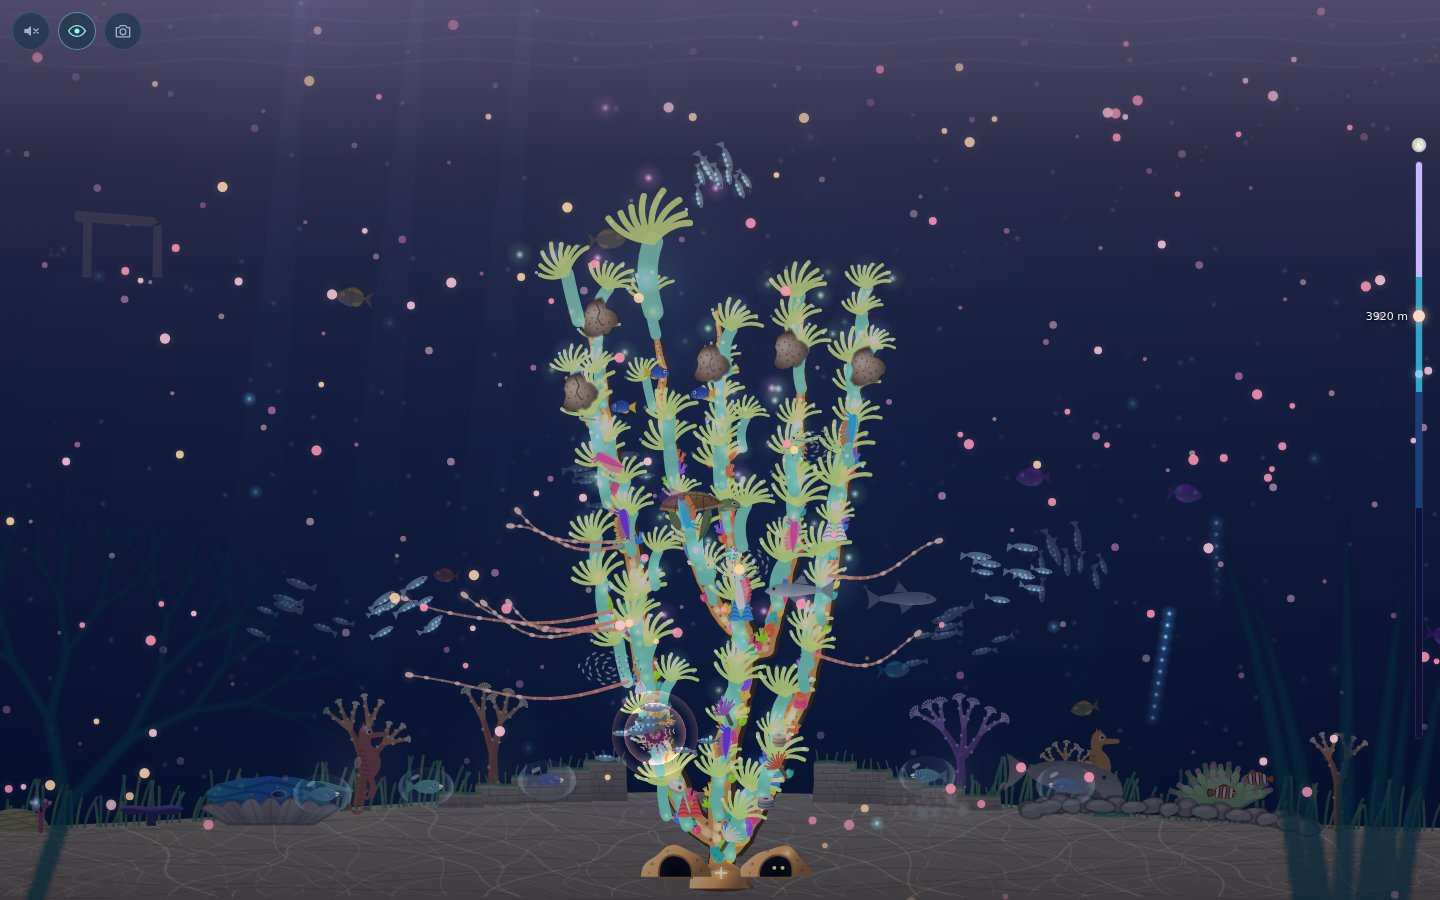
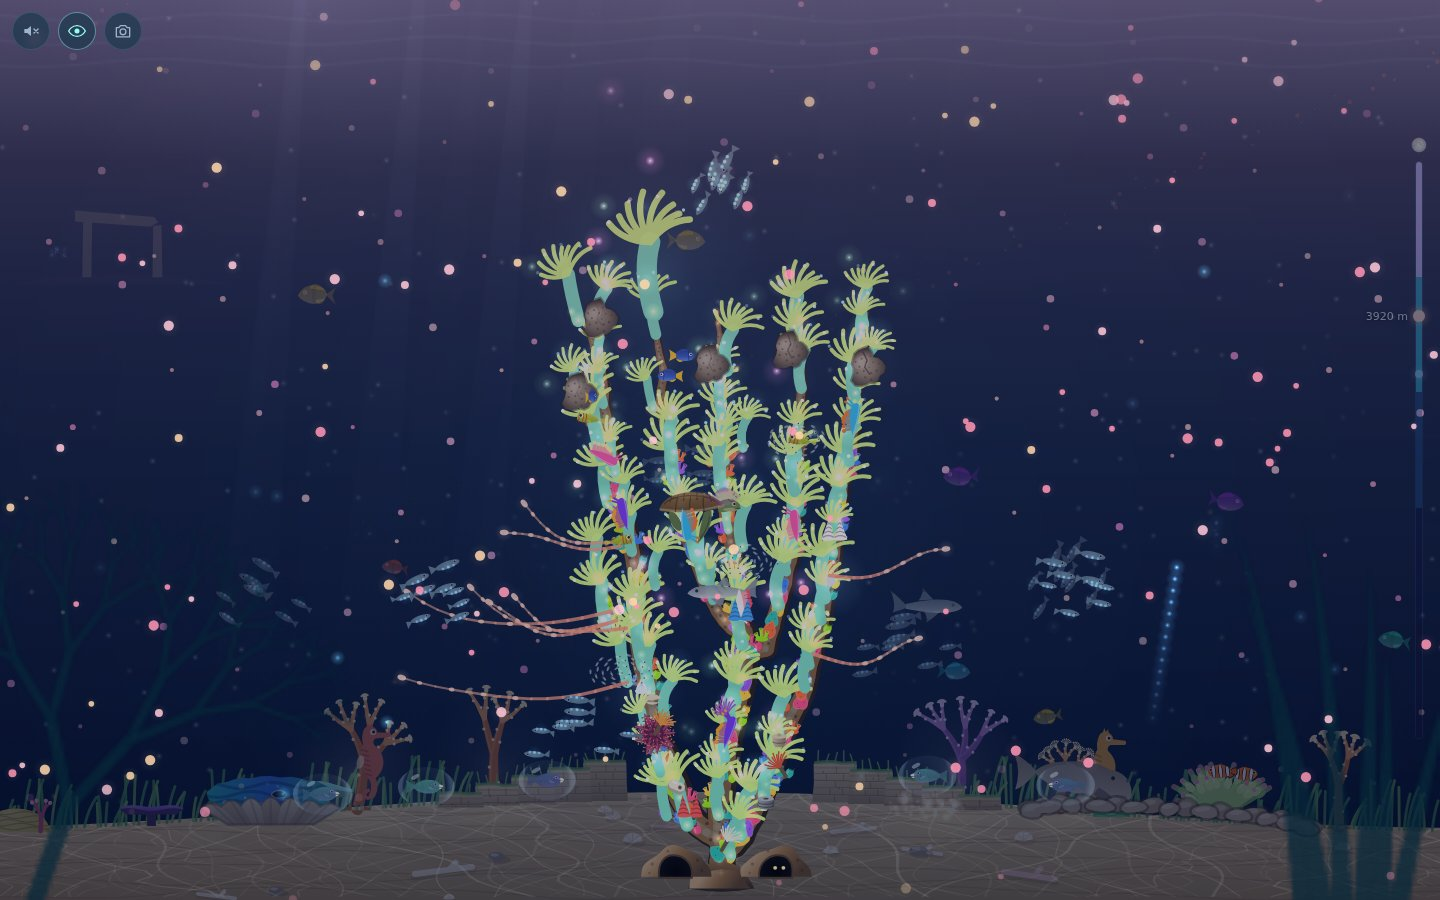
?nohints for the README and preview pictures; Breach and full moon retaken without hint rings

diff --git a/src/client/main.ts b/src/client/main.ts
@@ -1034,7 +1034,7 @@ function view(): ReefView {
     sisterLit: state.race.lit > 0,
     grotto: state.levels.grotto,
     blueMoon: blueMoon(state.t),
-    hints: !photoPending,
+    hints: hintsShown(),
     age: state.t,
     combo: state.t - state.lastSweep <= ACT1.comboGap ? state.combo : 1,
     fragments: state.fragments,
@@ -2021,6 +2021,10 @@ photoBtn.innerHTML = '<svg viewBox="0 0 24 24" width="20" height="20" aria-hidde
 // The shot is taken from the next frame, drawn without the play's own marks (the ripples of a tap,
 // today's visitor's halo): a picture of the reef, not of the hints.
 let photoPending: (() => void) | null = null;
+/** ?nohints: every frame drawn as for a photo (the README's and the link preview's pictures). */
+const noHints = params.has('nohints');
+/** Whether this frame shows the play's own marks: not in a photo, not with ?nohints. */
+function hintsShown(): boolean { return !photoPending && !noHints; }
 photoBtn.addEventListener('click', () => { photoPending = takePhoto; });
 function takePhoto(): void {
   // A copy of the scene with a small caption in the corner: name, height, zone.
@@ -2532,7 +2536,7 @@ function frameBody(now: number): void {
     }
   }
   const fe = currentFeast(state);
-  if (fe) drawFeast(ctx, fe, state.t - fe.start, tNow, focusNow, dpr, feastPay(state), !photoPending);
+  if (fe) drawFeast(ctx, fe, state.t - fe.start, tNow, focusNow, dpr, feastPay(state), hintsShown());
   const tg = currentTangle(state);
   // Under the full moon the other reefs spawn: their bundles rise through the water below the Breach.
   if (actAt(state.height) <= 4 && state.height >= 1 && moonFull(state.t)) {
@@ -2540,12 +2544,12 @@ function frameBody(now: number): void {
     drawOthersSpawn(ctx, focusNow, tNow, strength, actAt(state.height) <= 2 ? 1 : actAt(state.height) === 3 ? 0.5 : 0, dpr);
   }
   const sy = currentStray(state);
-  if (sy) drawStray(ctx, sy, STRAY.life, tNow, focusNow, dpr, !photoPending);
+  if (sy) drawStray(ctx, sy, STRAY.life, tNow, focusNow, dpr, hintsShown());
   const fr = currentFragment(state);
-  if (fr) drawFragment(ctx, fr, FRAGMENT.life, tNow, focusNow, dpr, !photoPending);
-  if (tg && actAt(state.height) === 1) drawPinned(ctx, tg, TANGLE.life, tNow, focusNow, dpr, !photoPending);
-  else if (tg && actAt(state.height) !== 5) drawTangle(ctx, tg, TANGLE.life, tNow, focusNow, dpr, !photoPending);
-  if (!photoPending) {
+  if (fr) drawFragment(ctx, fr, FRAGMENT.life, tNow, focusNow, dpr, hintsShown());
+  if (tg && actAt(state.height) === 1) drawPinned(ctx, tg, TANGLE.life, tNow, focusNow, dpr, hintsShown());
+  else if (tg && actAt(state.height) !== 5) drawTangle(ctx, tg, TANGLE.life, tNow, focusNow, dpr, hintsShown());
+  if (hintsShown()) {
     taps.draw(ctx, tNow, scene.crownAt, dpr, (x, y) => actAt(state.height) <= 2 || !!scene.darkAt?.(x, y));
     drawLucky(tNow);
   }

diff --git a/tools/readme.ts b/tools/readme.ts
@@ -10,16 +10,16 @@ const PHONE: Viewport = { name: 'phone', width: 390, height: 844, scale: 3, mobi
 type Shot = { name: string; query: string; vp: Viewport; view: boolean };
 const SHOTS: Shot[] = [
   // A chimaera crossing the Silt Floor.
-  { name: 'silt-floor', query: '?bot=300&t=942', vp: DESKTOP, view: true },
+  { name: 'silt-floor', query: '?bot=300&t=942&nohints', vp: DESKTOP, view: true },
   // The whale far above, whose call carries down.
-  { name: 'midnight-water', query: '?bot=1800&t=1930', vp: DESKTOP, view: true },
+  { name: 'midnight-water', query: '?bot=1800&t=1930&nohints', vp: DESKTOP, view: true },
   // The Rasp grazing the slope, a manta overhead.
-  { name: 'twilight-shelf', query: '?bot=12000&t=11979', vp: DESKTOP, view: true },
-  { name: 'sunlit-crown', query: '?bot=17000&t=17113', vp: DESKTOP, view: true },
+  { name: 'twilight-shelf', query: '?bot=12000&t=11979&nohints', vp: DESKTOP, view: true },
+  { name: 'sunlit-crown', query: '?bot=17000&t=17113&nohints', vp: DESKTOP, view: true },
   // A humpback breaching beside the crown, under the moon.
-  { name: 'breach', query: '?bot=22000&t=22291', vp: DESKTOP, view: true },
+  { name: 'breach', query: '?bot=22000&t=22291.85&nohints', vp: DESKTOP, view: true },
   // The other reefs spawning under the full moon, in the Sunlit Crown.
-  { name: 'full-moon', query: '?bot=17340&t=17340', vp: DESKTOP, view: true },
+  { name: 'full-moon', query: '?bot=17340&t=17340.85&nohints', vp: DESKTOP, view: true },
   { name: 'panel', query: '?bot=11000&t=11000', vp: DESKTOP, view: false },
   { name: 'phone', query: '?bot=17000&t=17000', vp: PHONE, view: false },
 ];

diff --git a/tools/share.ts b/tools/share.ts
@@ -3,7 +3,7 @@
 // Frozen at the end of a song cycle (its call ring every 4 s has all but faded): a still caught mid-ring reads as a glass dome.
 import { withGame } from './browser.ts';
 await withGame(async (open) => {
-  const { page } = await open({ name: 'share', width: 1200, height: 630, scale: 1, mobile: false }, '?bot=21500&t=903.85');
+  const { page } = await open({ name: 'share', width: 1200, height: 630, scale: 1, mobile: false }, '?bot=21500&t=903.85&nohints');
   page.setDefaultTimeout(2000);
   await page.waitForTimeout(3000);
   for (let i = 0; i < 10 && (await page.locator('.reader:not([hidden])').count()); i++) await page.locator('.reader:not([hidden]) button').first().click().catch(() => {});

diff --git a/docs/PROGRESS.md b/docs/PROGRESS.md
@@ -1479,3 +1479,4 @@ date, what landed, what is half-done, what's next.
 - Overlaps (tools/overlaps.ts, all viewports, 54 stage × size checks) after the evening's changes: clean.
 - Long-session memory (a release question for an idle game left open for hours): a phone at the Midnight→Twilight stage run at 50× for ~4 h of game time with sweeps in bursts, the heap measured after forced GC (CDP Runtime.getHeapUsage; performance.memory is bucketed in headless Chromium and read a flat 10.0 MB): 7.2 MB at load, 10.8 after warm-up, then a plateau at 11.5–12.3 MB; DOM elements flat at ~2,890–2,915. No leak.
 - README pictures retaken for today's art (silt-floor, midnight-water, twilight-shelf, sunlit-crown: the nodule fields, round banded towers, sand rubble, shelf brittle stars), and the link preview (share.jpg) too. The preview had caught the reef's song (the "call" ring swelling every 4 s) mid-ring, which in a still reads as a glass dome over the crown; tools/share.ts now freezes the scene at the end of a cycle (t=903.85) instead of shooting at whatever moment the page was ready.
+- `?nohints` (main.ts hintsShown): every frame drawn as the photo frame is (no touch-me rings, visitor halo, lucky sparks or tap ripples). tools/readme.ts and tools/share.ts use it, and the Breach and full-moon README moments sit at the end of a song cycle (t … .85): the old Breach picture carried a feast's bubble, a fish's bubble and the song's ring over the crown, the full moon the noon-coloured grottoes from before tonight's night shading. All six zone pictures and the preview retaken; listed in CLAUDE.md's debug params.

diff --git a/CLAUDE.md b/CLAUDE.md
@@ -33,7 +33,7 @@ These were written by the agent, not the user; fix them when wrong.
 - `node --no-warnings test/e2e/saves.ts` — save to a file / load save from a file / a photo of the reef
 - `node --no-warnings test/e2e/sound.ts` — every sound cue in every zone (autoplay allowed): each schedules notes, no errors; music vs sounds buses
 - `node --no-warnings test/e2e/systems.ts` — expedition send + call home, a resident, a riddle, the signal by keys, a shell, an upwelling caught with U, an ask leading to its card
-- Browser debug: `?at=<sec>` starts the scene clock there (rare creatures, day/night), `?fps`, `?bot=` (with `&truce=`, `&dialects=`, `&seamount=`), `?t=` (frozen).
+- Browser debug: `?at=<sec>` starts the scene clock there (rare creatures, day/night), `?fps`, `?bot=` (with `&truce=`, `&dialects=`, `&seamount=`), `?t=` (frozen), `?nohints` (frames drawn as for a photo: no touch-me rings, visitor halo or tap ripples; the README and link-preview tools use it).
 - `node tools/bot.ts [--truce aab] [--dialects <form id>,<craft id>,<spawn id>[,<song id>]] [--to <m>]` (ids from DIALECTS in content/act4.ts, e.g. `pillar,mucus,fragmenting`; an unknown one is refused) — headless time-compressed
   playthrough of the whole game; prints milestone times. Browser: `?bot=<sec>&truce=..&dialects=..`
 - `node --no-warnings tools/perf.ts [--vp mobile] [--at 600,5000,...]` — draw/panel ms and browser script/style/layout per frame, per zone
